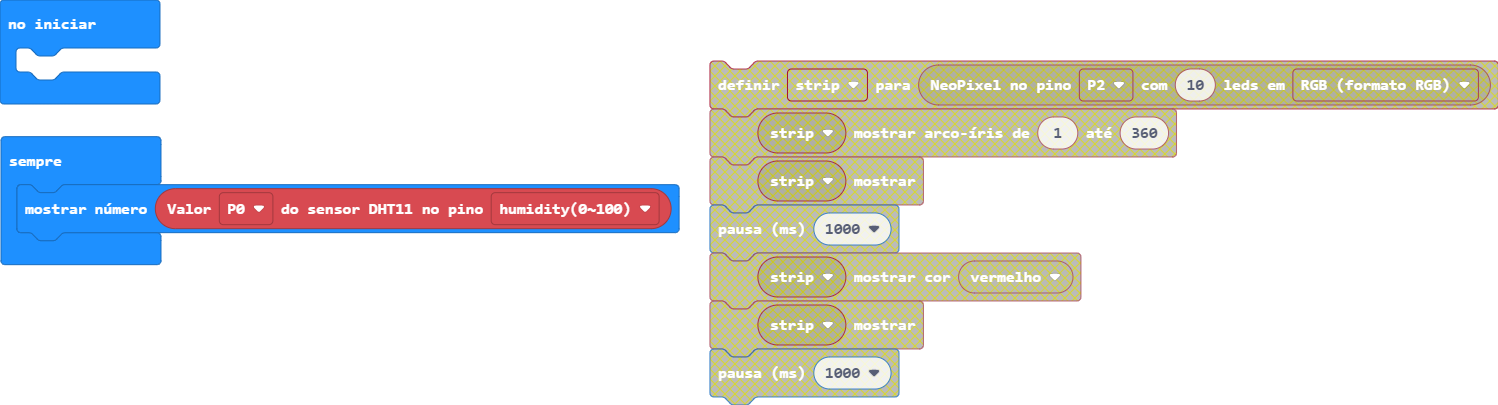
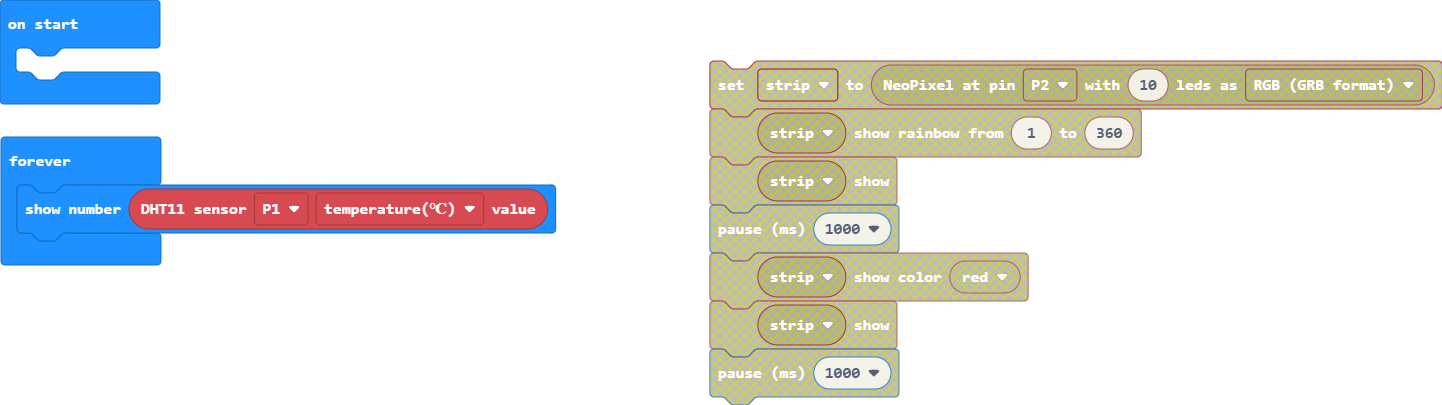
Update main.blocks, _locales/pt-BR/hackbit-strings.json, main.ts

diff --git a/main.ts b/main.ts
@@ -1,3 +1,3 @@
 basic.forever(function () {
-    basic.showNumber(hackbit.dht11Sensor(DigitalPin.P0, hackbit.DHT11Type.DHT11_humidity))
+    basic.showNumber(hackbit.dht11Sensor(DigitalPin.P1, hackbit.DHT11Type.DHT11_temperature_C))
 })
